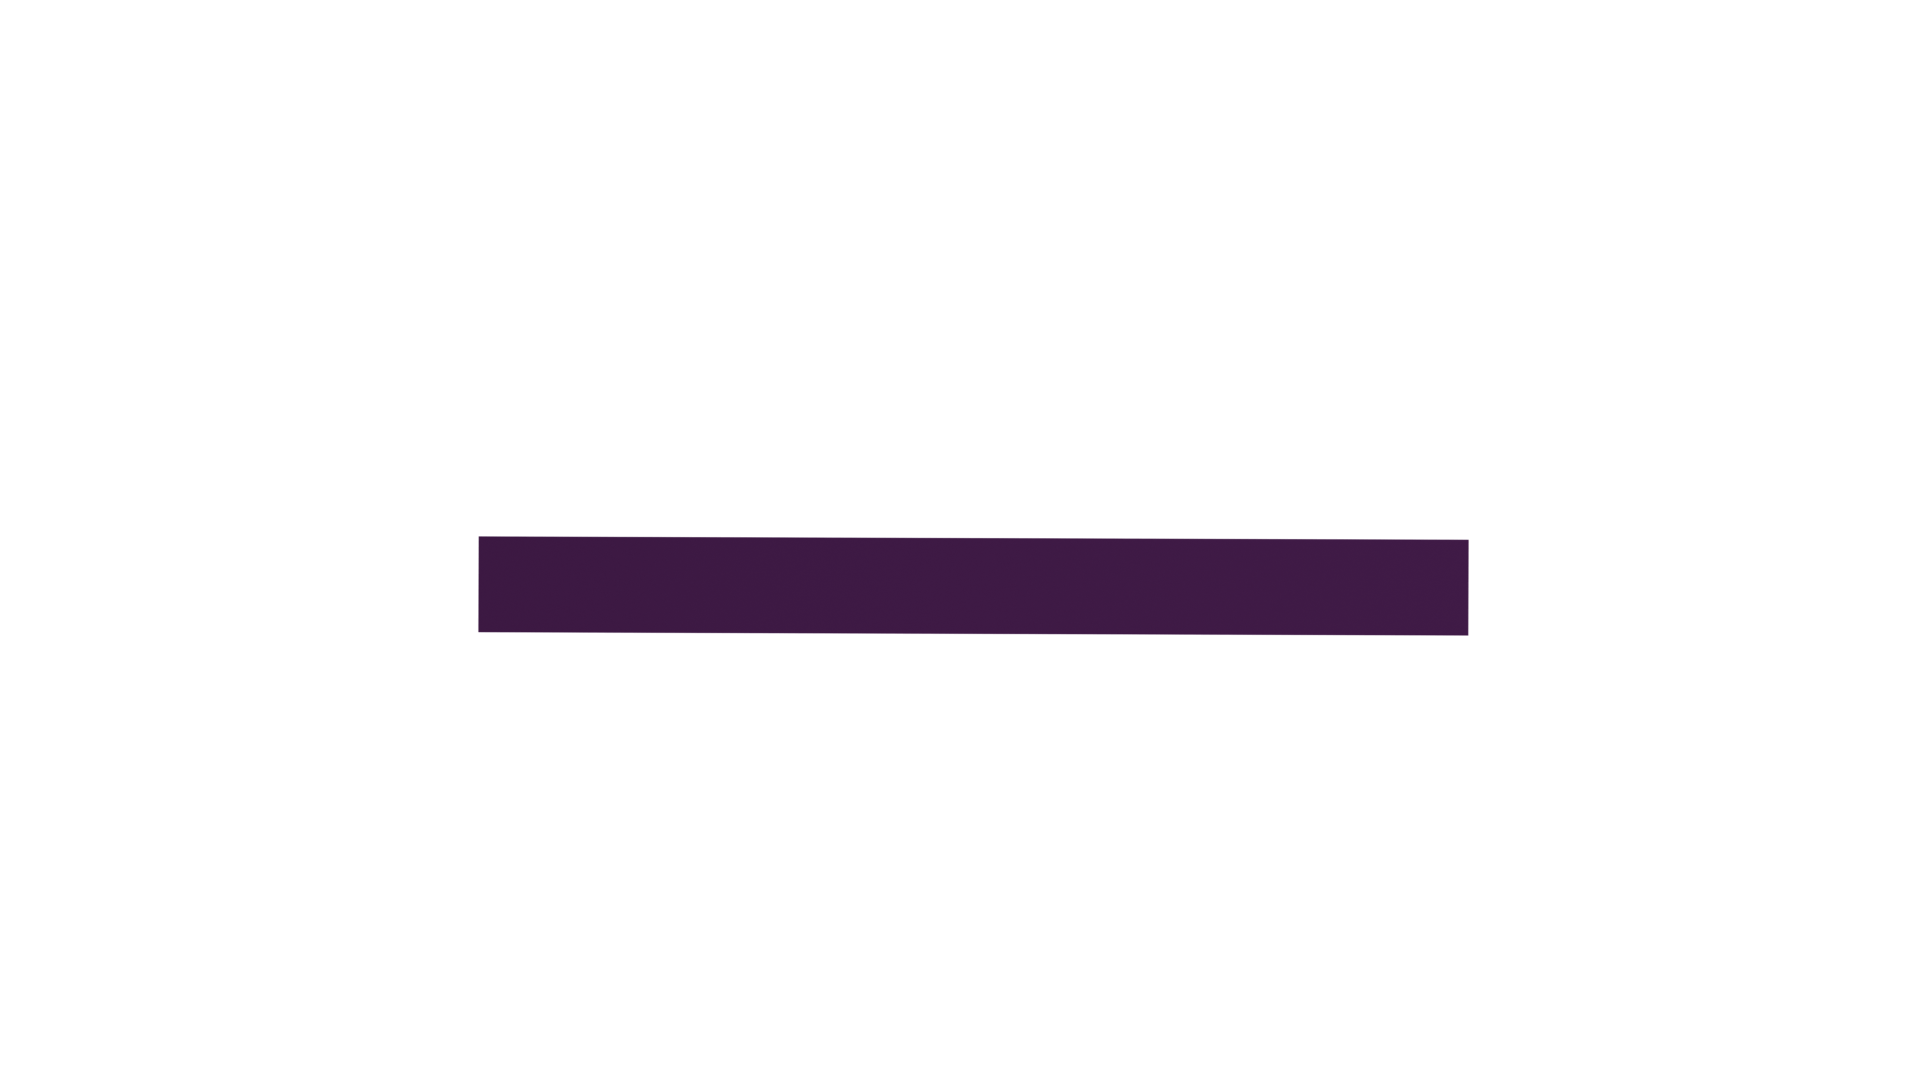
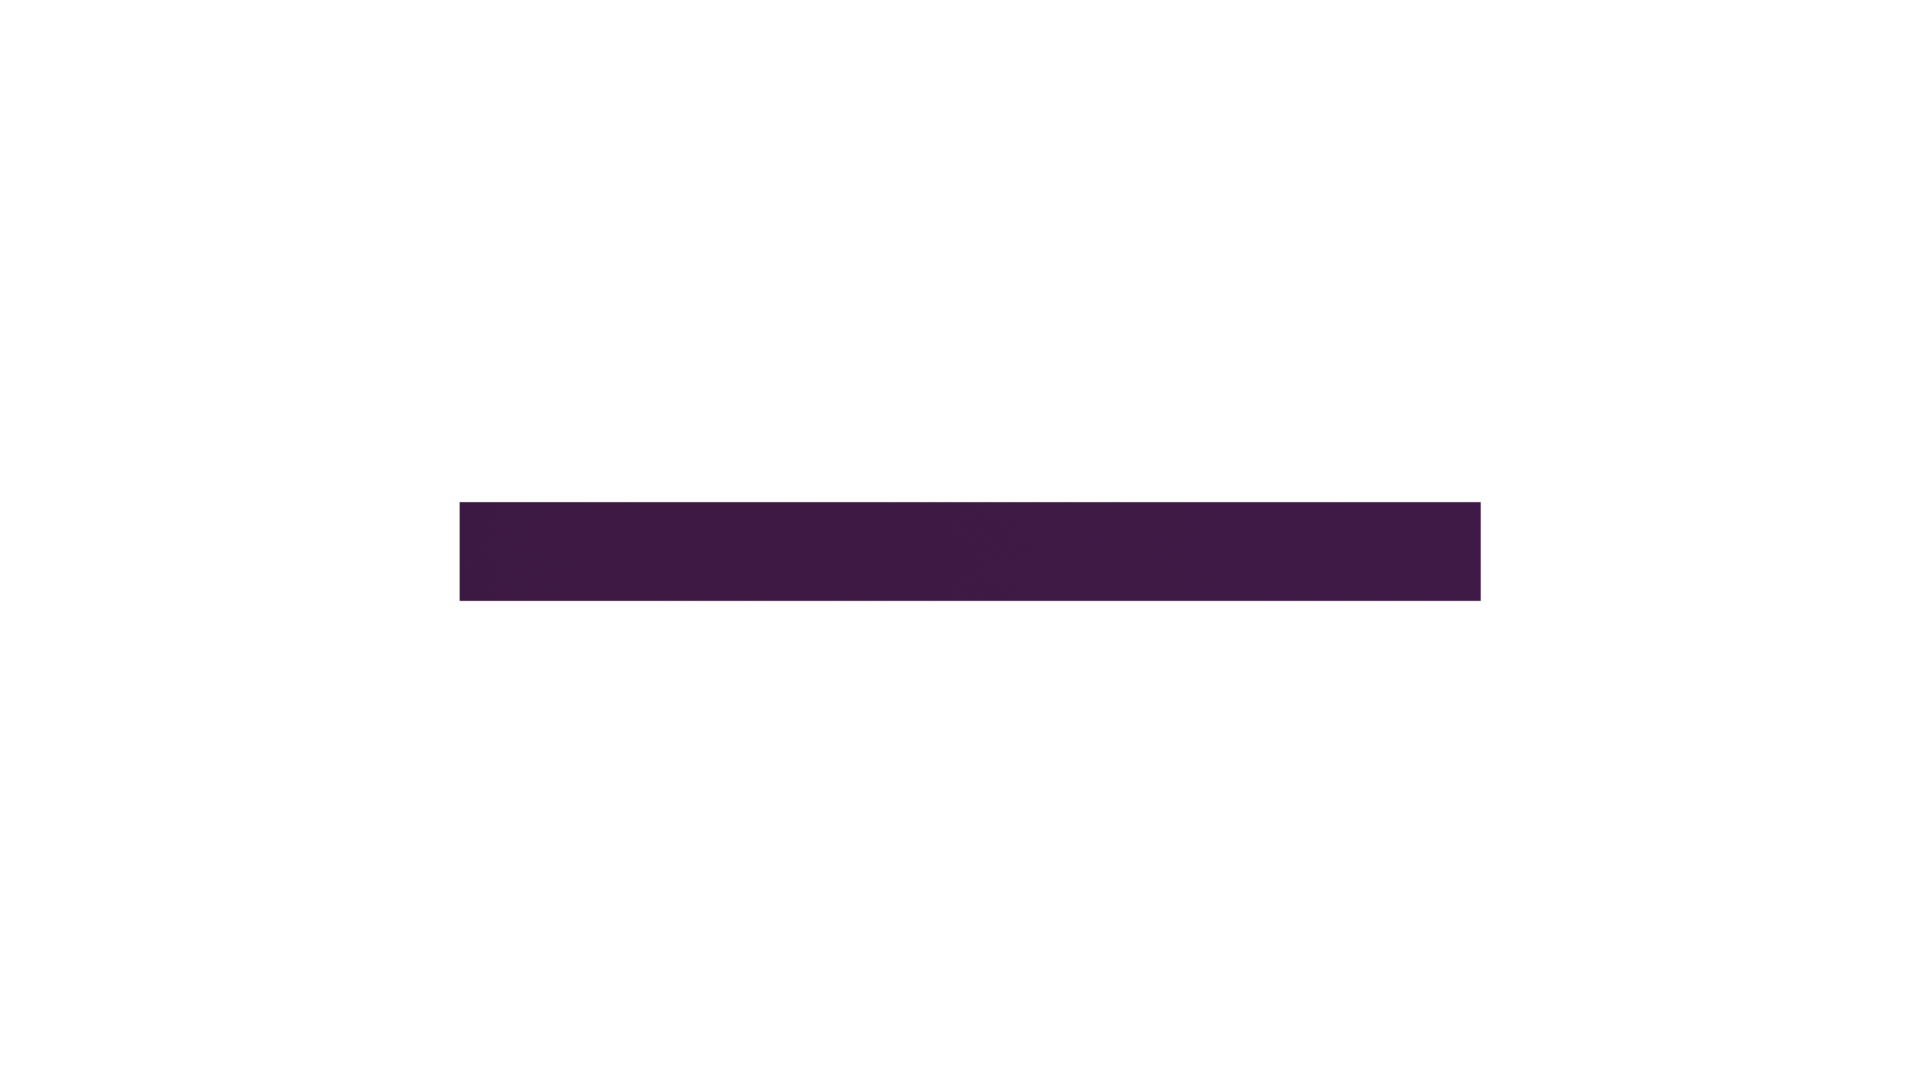
switch to new images

Changed region(s): [[0.2188, 0.4583, 0.7812, 0.6111]]

diff --git a/client/src/HUD.cpp b/client/src/HUD.cpp
@@ -1,13 +1,13 @@
 #include "HUD.h"
 
 HUDs::HUDs() {
-    healthBar = new HealthBar(glm::vec3(-0.60f, 0.98f, 0.0f), 0.45f, 0.3f);
+    healthBar = new HealthBar(glm::vec3(-0.70f, 0.95f, 0.0f), 0.45f, 0.3f);
     teamInfo = new TeamInfo();
     metronome = new Metronome(60.0f);
 }
 
 HUDs::HUDs(GameObject* owner) : IComponent(owner) {
-    healthBar = new HealthBar(glm::vec3(-0.60f, 0.98f, 0.0f), 0.45f, 0.3f);
+    healthBar = new HealthBar(glm::vec3(-0.70f, 0.95f, 0.0f), 0.45f, 0.3f);
     teamInfo = new TeamInfo(4);
     metronome = new Metronome(60.0f);
     text = new Quad(glm::vec3(0.0f, 0.1f, 0.0f), 0.2f);
@@ -17,7 +17,14 @@ HUDs::HUDs(GameObject* owner) : IComponent(owner) {
     text->setTexture("miss.png", "../assets/HUD/text");
     text->enableState(VISIBLE);
     text->setOpacity(opacity);
-    // perfect 0.15 -> 0.2
+    float dy = 0.0f;
+    for(int i = 0; i < 4; i++) {
+        musicNotes.push_back(new Quad(glm::vec3(0.9f, -0.5f + dy, 0.0f), 0.07f));
+        musicNotes[i]->setTexture("music-note2.png", "../assets/HUD");
+        musicNotes[i]->enableState(VISIBLE);
+        musicNotes[i]->setOpacity(0.2);
+        dy += 0.2f;
+    }
     text->update();
 }
 
@@ -28,6 +35,9 @@ void HUDs::draw(float aspectRatio) {
         teamInfo->draw(aspectRatio);
         metronome->draw(aspectRatio);
         text->draw(aspectRatio);
+        for(int i = 0; i < musicNotes.size(); i++) {
+            musicNotes[i]->draw(aspectRatio);
+        }
     }
 }
 float y = 0.1f;
@@ -36,6 +46,10 @@ void HUDs::update(float dt) {
     // std::cout<<"IsFade: "<<isFade<<std::endl;
     if(AudioManager::instance().pressed) {
         triggleText(AudioManager::instance().GetText());
+    }
+
+    if(beatHitCount >= 4) {
+        resetNoteOpacity();
     }
 
     if(isFade) {
@@ -50,27 +64,48 @@ void HUDs::update(float dt) {
     // std::cout<<"opacity: "<<opacity<<std::endl;
     text->setOpacity(opacity);
     text->setPosition(glm::vec3(0.0f, y, 0.0f));
-    
+
     healthBar->update();
     teamInfo->update();
     metronome->update();
     text->update();
+
+    for(int i = 0; i < musicNotes.size(); i++) {
+            musicNotes[i]->update();
+    }
 }
 
 std::string HUDs::ToString() { return "HUD"; }
 
 void HUDs::triggleText(std::string text) {
+    if(beatHitCount >= 4) {
+        resetNoteOpacity();
+    }
     if(text == "perfect") {
+        musicNotes[beatHitCount]->setOpacity(1);
+        beatHitCount++;
         this->text->activateTexture(0);
     } else if(text == "good") {
+        musicNotes[beatHitCount]->setOpacity(1);
+        beatHitCount++;
         this->text->activateTexture(1);
     } else if(text == "great") {
+        musicNotes[beatHitCount]->setOpacity(1);
+        beatHitCount++;
         this->text->activateTexture(2);
-    } else {
+    } else if(text == "offbeat") {
         this->text->activateTexture(3);
+        resetNoteOpacity();
     }
     isFade = true;
     y = 0.1f;
     opacity = 1.0f;
     time = 0;
+}
+
+void HUDs::resetNoteOpacity() {
+    for(int i = 0; i < 4; i++) {
+        musicNotes[i]->setOpacity(0.2f);
+    }
+    beatHitCount = 0;
 }

diff --git a/client/src/GameManager.cpp b/client/src/GameManager.cpp
@@ -12,6 +12,7 @@
 #include "EnemyComponent.hpp"
 #include "GameState.hpp"
 #include "HUD.h"
+#include "Health.hpp"
 
 const std::string path = "../assets/robot/robot.gltf";
 const std::string enemyPath = "../assets/Bear2/bear.gltf";
@@ -156,7 +157,13 @@ void GameManager::update(Packet* pkt) {
             players[network_id]->deserialize(pkt);
 
             if (localPlayerObject == network_id) {
-               
+                for(int i = 0; i < players.size(); i++) {
+                    if(i == localPlayerObject)
+                        players[localPlayerObject]->GetComponent<HUDs>()->healthBar->setHealth(players[i]->GetComponent<Health>()->GetHealth());
+                    else
+                        players[localPlayerObject]->GetComponent<HUDs>()->teamInfo->teamHealthMap[i]->setHealth(players[i]->GetComponent<Health>()->GetHealth());
+                }
+                
                 auto playerPos = players[localPlayerObject]
                                      ->GetComponent<NetTransform>()
                                      ->position;

diff --git a/client/src/Window.cpp b/client/src/Window.cpp
@@ -90,9 +90,11 @@ void Window::resizeCallback(GLFWwindow* window, int width, int height) {
     // Set the viewport size.
     glViewport(0, 0, width, height);
 
-    // Cam->SetAspect(float(width) / float(height));
+    GameManager::instance().cam->SetAspect(float(width) / float(height));
+    //std::cout<<"Window size: " << width << ", " << height<<std::endl;
 }
-
+int h = 100;
+int dh = 5;
 void Window::Render(GLFWwindow* window, Scene* scene, Camera* camera,
                     float deltaTime) {
     // Clear the color and depth buffers.
@@ -138,6 +140,11 @@ void Window::Render(GLFWwindow* window, Scene* scene, Camera* camera,
     glDisable(GL_DEPTH_TEST);
     for (auto& entity : scene->entities) {
         if (auto huds = entity->GetComponent<HUDs>()) {
+            // if(InputManager::IsKeyPressed(GLFW_KEY_P)) {
+            //     h -= dh;
+            //     huds->healthBar->setHealth(h);
+            //     std::cout<<"health:" << h<<std::endl;
+            // }
             huds->draw(camera->GetAspect());
         }
     }

diff --git a/client/main.cpp b/client/main.cpp
@@ -72,6 +72,10 @@ int main(int argc, char** argv) {
     // Create the GLFW window.
     float width = 800;
     float height = 600;
+        // Setup camera
+    GameManager::instance().cam = new Camera();
+    GameManager::instance().cam->SetAspect(float(width) / float(height));
+
     GLFWwindow* window = Window::createWindow(width, height);
     if (!window)
         exit(EXIT_FAILURE);
@@ -80,9 +84,9 @@ int main(int argc, char** argv) {
     GameManager::instance().Init();
     printf(YLW "Done loading!n" RST);
 
-    // Setup camera
-    GameManager::instance().cam = new Camera();
-    GameManager::instance().cam->SetAspect(float(width) / float(height));
+    // // Setup camera
+    // GameManager::instance().cam = new Camera();
+    // GameManager::instance().cam->SetAspect(float(width) / float(height));
 
     // Print OpenGL and GLSL versions.
     print_versions();

diff --git a/client/src/HealthBar.cpp b/client/src/HealthBar.cpp
@@ -34,7 +34,11 @@ void HealthBar::draw(float aspectRatio) {
         currHealth = maxHealth;
     }
     GLuint shader = quad->getShader();
-    ratio = currHealth / maxHealth;
+ 
+    ratio = ((currHealth) / (maxHealth + 15.0f));
+
+    //std::cout<<"ratio" << ratio << std::endl;
+    //std::cout<<"heath: " << currHealth <<std::endl;
     glUseProgram(shader);
     glUniform1i(glGetUniformLocation(shader, "isHealthBar"), 1);
     glUniform1f(glGetUniformLocation(shader, "ratio"), ratio);

diff --git a/client/src/Quad.cpp b/client/src/Quad.cpp
@@ -105,6 +105,7 @@ void Quad::draw(float aspectRatio) {
     }
     glUniform1i(glGetUniformLocation(shader, "textureIndex"), textureIndex);
     glUniform1f(glGetUniformLocation(shader, "opacity"), opacity);
+    // std::cout<<"aspect: " << aspectRatio<<std::endl;
     glUniform1f(glGetUniformLocation(shader, "aspectRatio"), aspectRatio);
     glUniformMatrix4fv(glGetUniformLocation(shader, "model"), 1, GL_FALSE, (float*)&modelMtx);
 

diff --git a/client/src/Metronome.cpp b/client/src/Metronome.cpp
@@ -13,7 +13,7 @@ Metronome::Metronome(int bpm) : bpm(bpm) {
     // quad = new Quad(glm::vec3(0.0f, 0.0f, 0.0f), max);
     // quad->setTexture("square-red.png", "../assets/HUD/metronome");
     quad2 = new Quad(glm::vec3(0.0f, 0.0f, 0.0f), max);
-    quad2->setTexture("square-red.png", "../assets/HUD/metronome");
+    quad2->setTexture("square-red-thick.png", "../assets/HUD/metronome");
 
     quad2->enableState(VISIBLE);
 

diff --git a/client/include/HealthBar.h b/client/include/HealthBar.h
@@ -14,6 +14,7 @@ public:
     ~HealthBar();
     void draw(float aspectRatio);
     void setHealth(float health) { currHealth = health; }
+    void setMaxHealth(float health) { maxHealth = health; }
     float getHealth() const { return currHealth; }   
     void update();
     float currHealth = 100.0f;

diff --git a/client/include/HUD.h b/client/include/HUD.h
@@ -18,10 +18,13 @@ public:
     Metronome* metronome;
     HealthBar* healthBar;
     Quad* text;
+    std::vector<Quad*> musicNotes;
 private:
+    void resetNoteOpacity();
     bool isFade = false;
     float time = 0;
     float opacity = 0.0f;
     glm::vec3 textPos;
+    int beatHitCount = 0;
 
 };

diff --git a/client/include/TeamInfo.h b/client/include/TeamInfo.h
@@ -15,7 +15,7 @@ public:
     std::map<int, HealthBar*> teamHealthMap;
 private:
     float yOffset = 0.15f;
-    glm::vec3 startPos = glm::vec3(-0.82f, 0.75f, 0.0f);
+    glm::vec3 startPos = glm::vec3(-0.80f, 0.75f, 0.0f);
     float width = 0.20f;
     float height = 0.2f;
     int size = 0;

diff --git a/client/src/InputManager.cpp b/client/src/InputManager.cpp
@@ -16,6 +16,9 @@ void InputManager::setDefaultKeys() {
     keys[GLFW_KEY_Q] = (KeyState)0;
     keys[GLFW_KEY_E] = (KeyState)0;
     keys[GLFW_KEY_R] = (KeyState)0;
+
+    //for testing
+    keys[GLFW_KEY_P] = (KeyState)0;
 }
 
 void InputManager::setUpCallback(GLFWwindow* window) {
